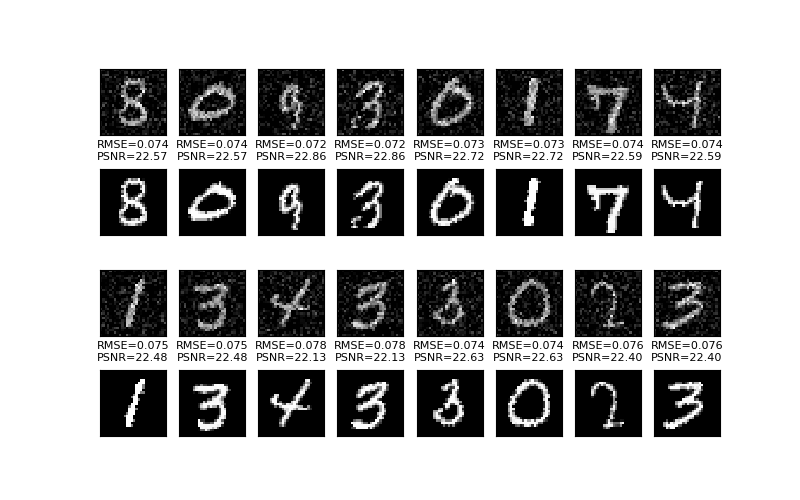
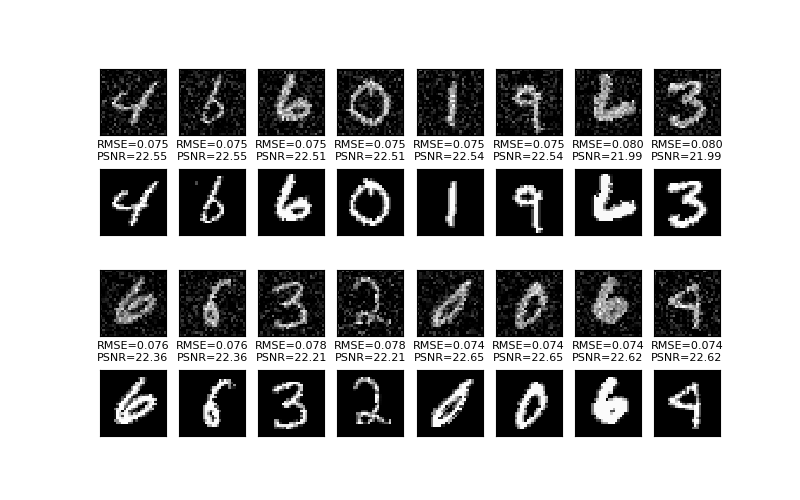
Update example

diff --git a/README.md b/README.md
@@ -41,7 +41,7 @@ Example starting condition:
 
 Example training result:
 
-![Example training result](example/image_at_epoch_0012.png)
+![Example training result](example/image_at_epoch_0019.png)
 
 ## References
 [1] Ronneberger, Olaf, Philipp Fischer, and Thomas Brox. "U-net: Convolutional networks for biomedical image segmentation." In International Conference on Medical image computing and computer-assisted intervention, pp. 234-241. Springer, Cham, 2015.
